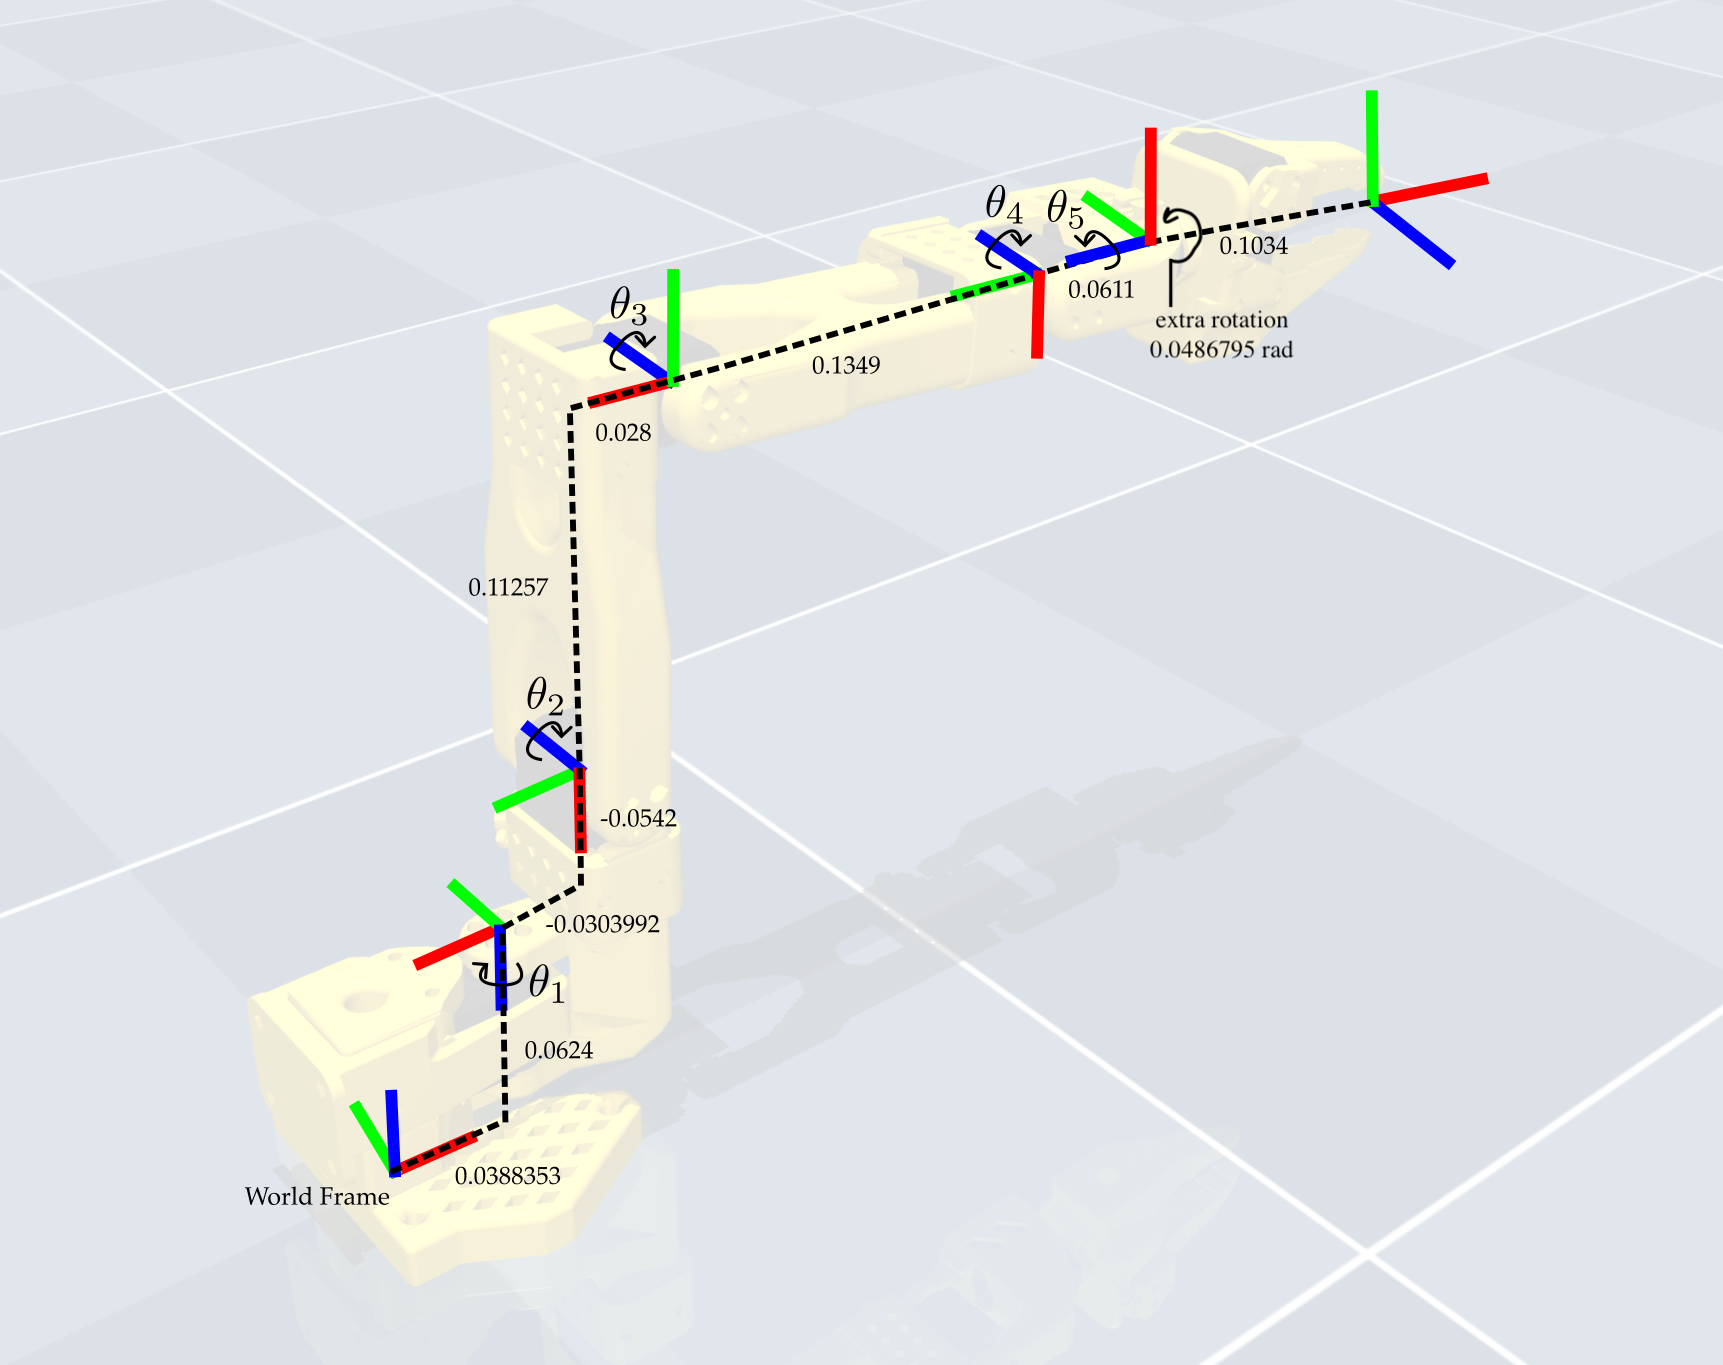
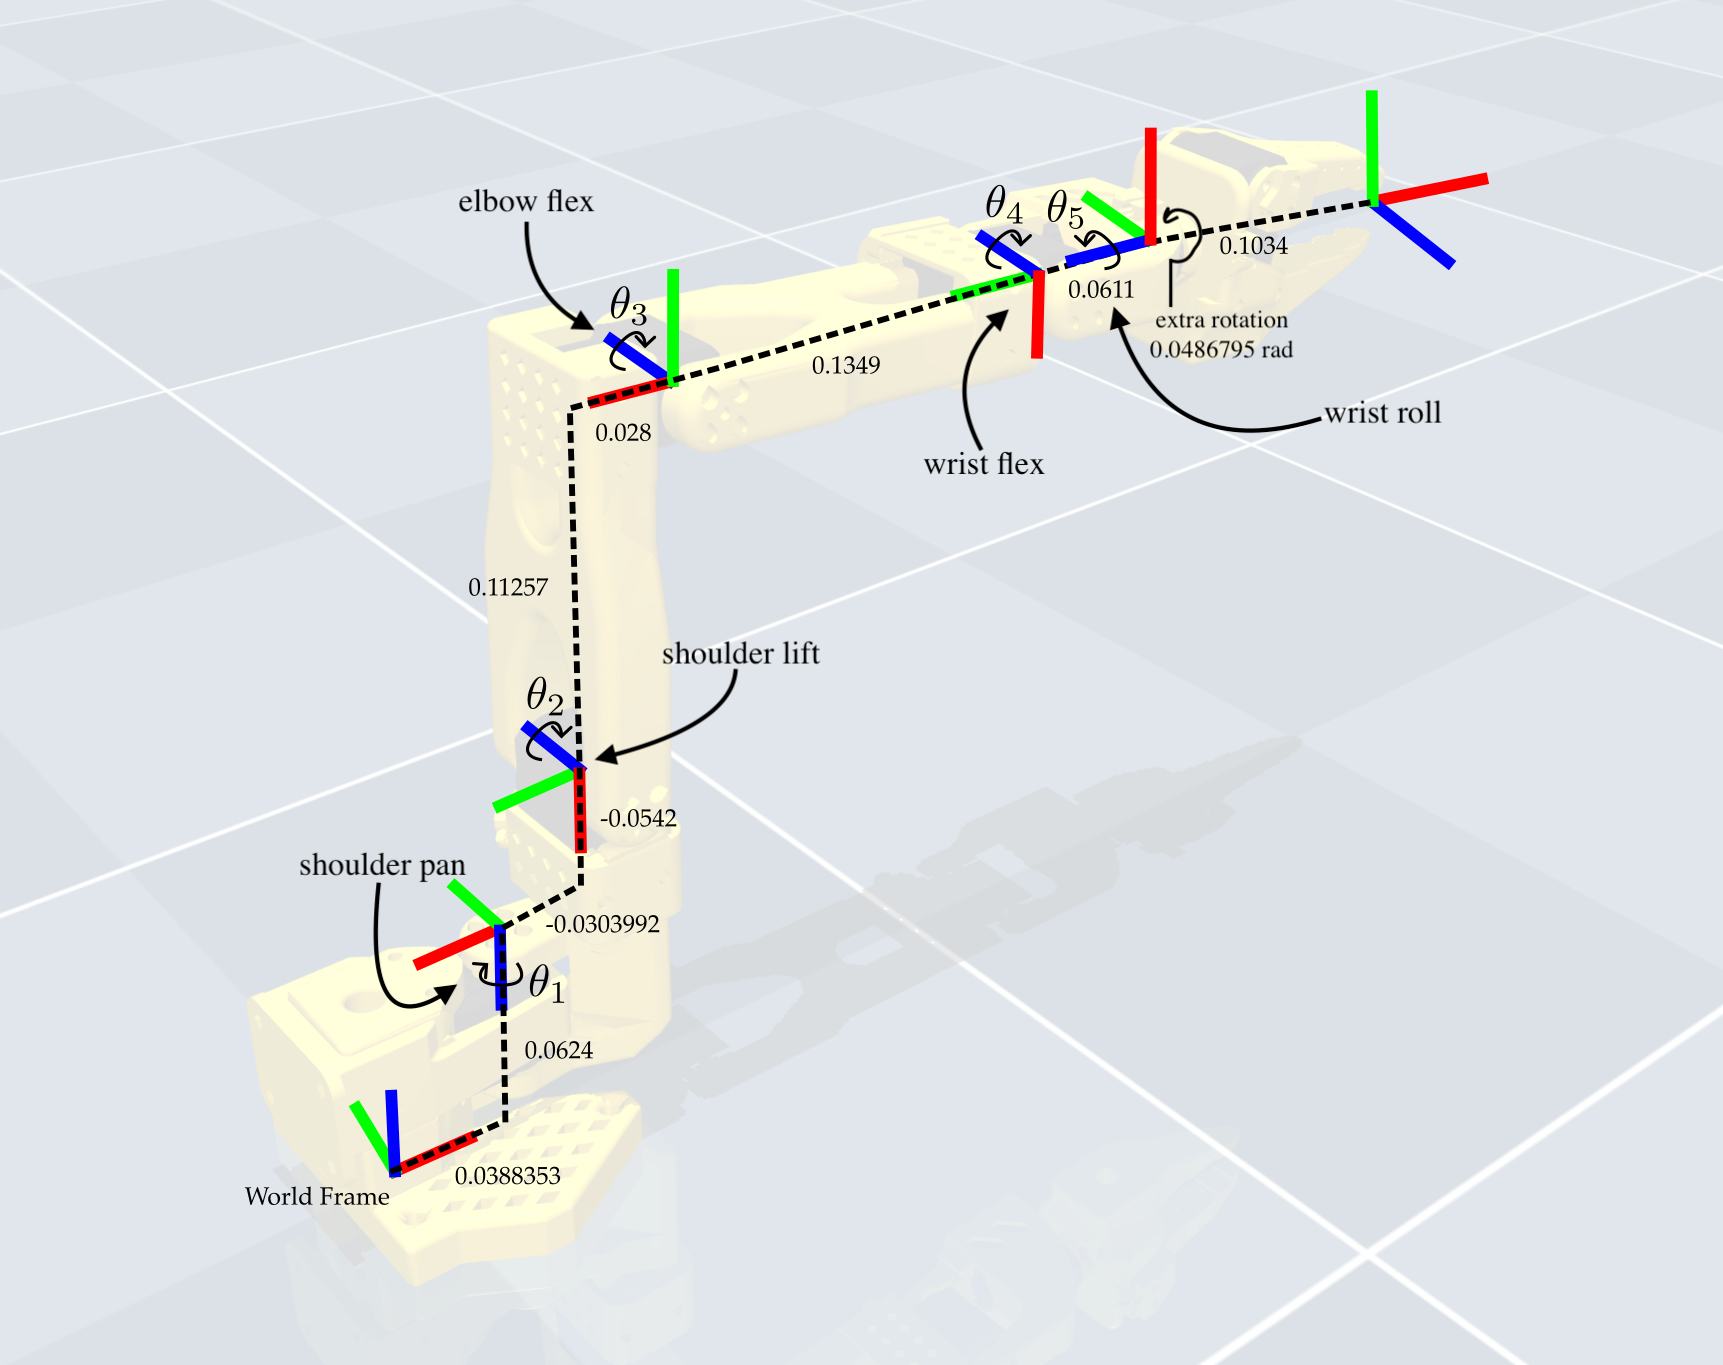
updated tests on solvability and separate reference loading

diff --git a/01-intro-and-kinematics/homework/tests/test_broom_racing.py b/01-intro-and-kinematics/homework/tests/test_broom_racing.py
@@ -25,17 +25,30 @@ from solutions.broom_racing import gate_pass, catch_snitch, catch_ball_and_gate
 
 OPEN_CASES = json.load(open(_hw / "tests" / "broom_racing_open_test_cases.json", "r"))
 
+GATE_PASS_REF = CATCH_SNITCH_REF = CATCH_BALL_AND_GATE_REF = None
+REF_AVAILABLE = False
 try:
     _ref_mod = importlib.import_module("reference_solution.broom_racing")
     GATE_PASS_REF = getattr(_ref_mod, "gate_pass_ref", None)
     CATCH_SNITCH_REF = getattr(_ref_mod, "catch_snitch_ref", None)
     CATCH_BALL_AND_GATE_REF = getattr(_ref_mod, "catch_ball_and_gate_ref", None)
-    REF_AVAILABLE = GATE_PASS_REF is not None and CATCH_SNITCH_REF is not None and CATCH_BALL_AND_GATE_REF is not None
-    HIDDEN_CASES = getattr(importlib.import_module("hidden_tests.test_broom_racing"), "HIDDEN_CASES", None)
+    REF_AVAILABLE = (
+        GATE_PASS_REF is not None
+        and CATCH_SNITCH_REF is not None
+        and CATCH_BALL_AND_GATE_REF is not None
+    )
 except Exception:
-    GATE_PASS_REF = CATCH_SNITCH_REF = CATCH_BALL_AND_GATE_REF = None
-    REF_AVAILABLE = False
-    HIDDEN_CASES = None
+    pass
+
+HIDDEN_CASES = None
+try:
+    HIDDEN_CASES = getattr(
+        importlib.import_module("hidden_tests.test_broom_racing"),
+        "HIDDEN_CASES",
+        None,
+    )
+except Exception:
+    pass
 
 RTOL = 1e-3
 LENGTH_MARGIN = 1e-3

diff --git a/01-intro-and-kinematics/homework/tests/test_so101_ik.py b/01-intro-and-kinematics/homework/tests/test_so101_ik.py
@@ -170,12 +170,15 @@ def test_numerical_vs_reference(pose: np.ndarray, solvable: bool, q_ref: np.ndar
 
 @pytest.mark.skipif(REFERENCE_SOLUTION is None, reason="Reference solution is not available")
 def test_analytical_vs_reference_formulas() -> None:
-    x, y, z, yaw_s = sympy.symbols("x y z yaw", real=True)
-    solution_formulas = analytical_solution_formulas(x, y, z, yaw_s)
-    reference_formulas = REFERENCE_SOLUTION(x, y, z, yaw_s)
+    x = sympy.Symbol("x", real=True, positive=True)
+    y = sympy.Symbol("y", real=True, positive=True)
+    z = sympy.Symbol("z", real=True, positive=True)
+    yaw_s = sympy.Symbol("yaw_s", real=True)
+    solution_formulas = analytical_solution_formulas(x + 0.1, y, z, yaw_s)
+    reference_formulas = REFERENCE_SOLUTION(x + 0.1, y, z, yaw_s)
     difference = set(SO101_JOINT_NAMES) - set(solution_formulas.keys())
     assert not difference, f"Analytical solution did not return following joint names: {difference}"
     for name in SO101_JOINT_NAMES:
-        assert solution_formulas[name].equals(reference_formulas[name]), f"Symbolic mismatch for joint {name}: solution != reference"
+        assert sympy.simplify(solution_formulas[name] - reference_formulas[name]) == 0, f"Symbolic mismatch for joint {name}: solution != reference"
 
 

diff --git a/01-intro-and-kinematics/homework/solutions/so101_ik.py b/01-intro-and-kinematics/homework/solutions/so101_ik.py
@@ -70,10 +70,10 @@ def analytical_ik_so101_downturned(
     serial_chain = pk.SerialChain(chain, "gripper_frame_link", "base_link")
     low, high = serial_chain.get_joint_limits()
     low, high = np.asarray(low), np.asarray(high)
-    for joint in chain.get_joints():
+    for idx, joint in enumerate(q.keys()):
         joint_name = joint.name
         joint_angle = q[joint_name]
-        if joint_angle < low[joint_name] or joint_angle > high[joint_name]:
+        if joint_angle < low[idx] or joint_angle > high[idx]:
             return None
     return q
 

diff --git a/01-intro-and-kinematics/homework/tests/conftest.py b/01-intro-and-kinematics/homework/tests/conftest.py
@@ -1,6 +1,7 @@
 """
 Session-wide checks: forbid student code (solutions/) from importing reference_solution or hidden_tests.
-When BLOCK_REFERENCE_IMPORT=1 (pass 1 of grading), block those imports so student code cannot use them.
+
+Set BLOCK_REFERENCE_IMPORT=1 to block runtime imports of those top-level packages (optional).
 """
 import ast
 import os
